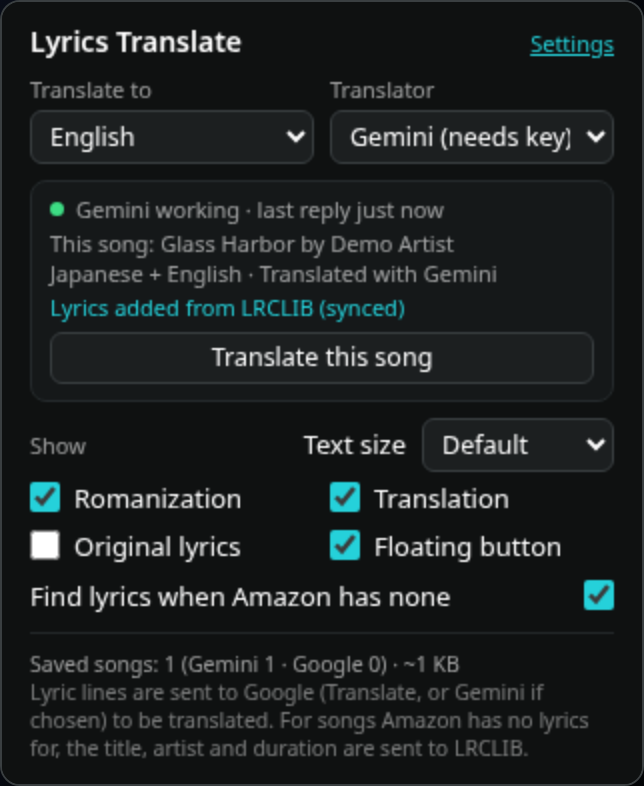
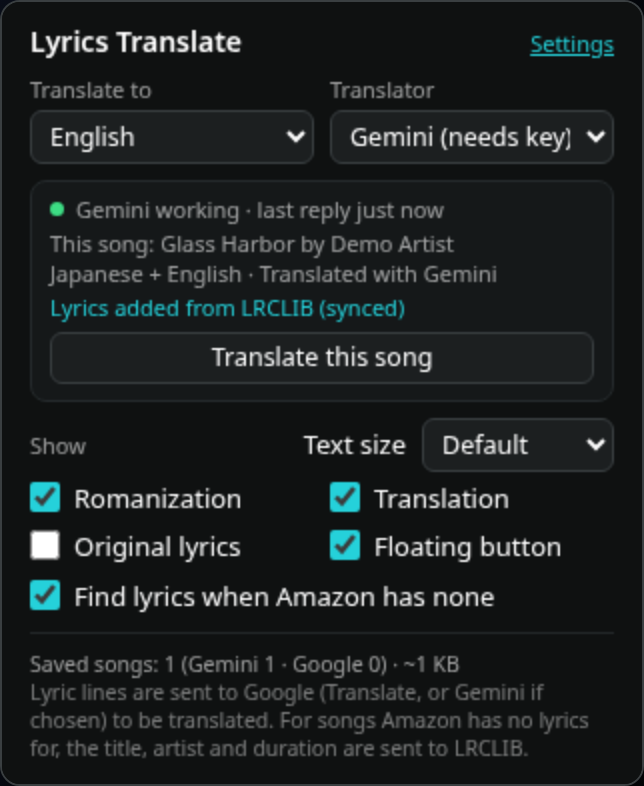
site: 1.3.6 popup images and text, live version line under the install buttons
- docs/img/popup.png and 4-floating-panel.png regenerated from the 1.3.6 popup
  (checkbox on the left; floating button with its green Gemini dot). Store-style
  copy, all network mocked, invented songs and lyrics only.
- Features/popup sections: romanized LRCLIB lyrics and the Gemini dot on the
  floating button; What's new 1.3.6 wording.
- Privacy (page and card): Gemini may also be asked to guess the original script
  of already-romanized lyrics (same lines, same service); cache note.
- Under the install buttons: 'Store: vX · GitHub: vY' from same-origin
  docs/versions.json plus a note about store review times; only the note
  shows if the file can't load.

Changed region(s): [[0.0311, 0.7328, 0.7764, 0.7939], [0.9006, 0.7328, 0.9627, 0.7939]]

diff --git a/docs/index.html b/docs/index.html
@@ -32,6 +32,7 @@
       <a class="btn primary" href="https://microsoftedge.microsoft.com/addons/detail/lyrics-translate-romanize-for-amazon-music/jjfhmmdjbkcamelimddcogoopaljflff">Get it on Microsoft Edge Add-ons</a>
       <a class="btn" href="https://github.com/NoodlesNom/lyrics-translate-for-amazon-music/releases/latest">Download ZIP (load unpacked)</a>
     </div>
+    <p class="note versions"><span id="versions" class="ver" hidden></span>Store updates can take up to a week because Microsoft reviews each one. The GitHub version is always the newest.</p>
     <p class="note">Free and open source (MIT). No account, no analytics. Not affiliated with Amazon.</p>
     <div class="shot"><img src="img/1-translated.png" width="1280" height="800" alt="The Amazon Music-style lyrics view on a demo page: each invented lyric line is shown as a large English translation with a small romanization underneath."></div>
     <p class="note">All screenshots use a local demo page with invented lyric lines.</p>
@@ -54,7 +55,7 @@
       <div class="card"><div class="icon">⤒</div><h3>Translation as the main line</h3>
         <p>By default the translation replaces the original as the big, bold line, with the romanization underneath. Turn on <b>Original lyrics</b> in the popup to keep the original big and show the extras in small text.</p></div>
       <div class="card"><div class="icon">◉</div><h3>Floating button</h3>
-        <p>A small round button in the top-right corner of the player opens the popup as a panel right on the page. Click outside it or press <kbd>Esc</kbd> to close it, or hide the button in the popup.</p></div>
+        <p>A small round button in the top-right corner of the player opens the popup as a panel right on the page. Click outside it or press <kbd>Esc</kbd> to close it, or hide the button in the popup. With Gemini selected, a small dot on it shows the Gemini status, like the popup.</p></div>
       <div class="card"><div class="icon">⟳</div><h3>Per-song cache</h3>
         <p>Results are saved per song, translator and language: up to 2000 songs (400 lines each). Replays are instant and make no requests. When the cache is full, the least recently played songs are removed first.</p></div>
       <div class="card"><div class="icon">✓</div><span class="tag">Improved in 1.3</span><h3>Smarter language check</h3>
@@ -72,6 +73,7 @@
         <ul class="ticks">
           <li>The current line is highlighted and follows playback, seeks and pauses.</li>
           <li>Translation and romanization work just like on Amazon's lyrics.</li>
+          <li>If LRCLIB only has a romanization (romaji, pinyin, Korean romanization), it becomes the small romanization line under the translation, and a copy in the original script wins when there is one. With Gemini, <b>Original lyrics</b> shows a marked guess (≈) of the original script.</li>
           <li>The popup's <b>This song</b> line shows the title, artist and where the lyrics came from.</li>
           <li>Only the song's title, artist and duration are sent to lrclib.net. Turn it off anytime with <b>Find lyrics when Amazon has none</b>.</li>
         </ul></div>
@@ -89,7 +91,7 @@
     <div class="split rev">
       <div class="media"><img src="img/4-floating-panel.png" width="1280" height="800" alt="The floating button in the top-right corner has opened the settings panel on the page, next to translated demo lyrics."></div>
       <div><h3>Settings without leaving the player</h3>
-        <p>The floating button opens the full popup as an in-page panel, handy in full-screen or when the toolbar is hidden. It's the same popup, with the same live status lines.</p></div>
+        <p>The floating button opens the full popup as an in-page panel, handy in full-screen or when the toolbar is hidden. It's the same popup, with the same live status lines, and while Gemini is the translator the button's corner dot shows its status at a glance (green: working).</p></div>
     </div>
   </div>
 </section>
@@ -99,7 +101,7 @@
     <h2>What's new</h2>
     <p class="sub">Recent versions, newest first. Full history and downloads in the <a href="https://github.com/NoodlesNom/lyrics-translate-for-amazon-music/releases">releases</a>.</p>
     <div class="changelog">
-      <div class="card"><h3>1.3.6</h3><p>Romanized LRCLIB lyrics now show as the romanization line; a Japanese-script copy is preferred when LRCLIB has one. Korean and Chinese romanizations are recognized too; with Gemini, the Original lyrics line shows a marked guess of the original script. Tidier popup checkboxes, and the floating button shows the Gemini status dot.</p></div>
+      <div class="card"><h3>1.3.6</h3><p>LRCLIB lyrics that are only a romanization (romaji, Korean romanization or pinyin) now show as the romanization line under the translation, and a copy in the original script is preferred when LRCLIB has one. With Gemini, the Original lyrics line shows a marked guess (≈) of the original script. Tidier popup checkboxes, and the floating button shows the Gemini status dot.</p></div>
       <div class="card"><h3>1.3.5</h3><p>Fixed: after jumping ahead in a song, the highlighted line could scroll off screen (worse with big text). It now comes straight back to the middle of the lyrics. Popup fits without scroll bars again.</p></div>
       <div class="card"><h3>1.3.4</h3><p>First public release with LRCLIB lyrics and the smarter language check (1.3.0–1.3.3 were test builds, released together here). Copies installed with Load unpacked now tell you when a new version is out (a NEW badge and a download link in the popup) and get a <b>Check for updates</b> button. Store copies update automatically, as before.</p></div>
       <div class="card"><h3>1.3.3</h3><p><i>Test build, released in 1.3.4.</i> Smarter language check: songs already in your language never go to Gemini, even with look-alike characters, and mostly English songs only get their few foreign lines translated.</p></div>
@@ -119,8 +121,8 @@
       <dl class="controls">
         <dt>Translate to</dt><dd>Target language: 23 languages, including English, Spanish, French, German, Japanese, Korean, Chinese (Simplified and Traditional), Arabic, Hindi and more.</dd>
         <dt>Translator</dt><dd><b>Gemini (needs key)</b> or <b>Google Translate</b>. Gemini is picked automatically once you save a key.</dd>
-        <dt>Gemini status dot</dt><dd><span class="dot g"></span>Gemini working, last reply 2 min ago · <span class="dot a"></span>Using Google (quota hit, timed out, error or unexpected reply) · <span class="dot r"></span>Invalid key · <span class="dot n"></span>No key, not used yet, or Google selected.</dd>
-        <dt>This song</dt><dd>The current song's title and artist, its detected language(s) and state, for example "Japanese + English · Translated with Gemini (from cache)", "English · Already in English, no translation needed" or "Translating…". For songs Amazon has no lyrics for, a second line says where the lyrics came from: "Lyrics added from LRCLIB (synced)", or "Amazon has no lyrics; none found on LRCLIB".</dd>
+        <dt>Gemini status dot</dt><dd><span class="dot g"></span>Gemini working, last reply 2 min ago · <span class="dot a"></span>Using Google (quota hit, timed out, error or unexpected reply) · <span class="dot r"></span>Invalid key · <span class="dot n"></span>No key, not used yet, or Google selected. While Gemini is selected, the floating button shows the same dot.</dd>
+        <dt>This song</dt><dd>The current song's title and artist, its detected language(s) and state, for example "Japanese + English · Translated with Gemini (from cache)", "English · Already in English, no translation needed" or "Translating…". For songs Amazon has no lyrics for, a second line says where the lyrics came from: "Lyrics added from LRCLIB (synced)", or "Amazon has no lyrics; none found on LRCLIB". If LRCLIB only had a romanization, it says so, for example "LRCLIB lyrics were already romanized (Japanese) · original script guessed by Gemini".</dd>
         <dt>Translate this song</dt><dd>Translates the open song again with the selected translator and stops it being skipped.</dd>
         <dt>Text size</dt><dd>Small (85%), Default, Large (120%) or Extra large (145%).</dd>
         <dt>Toggles</dt><dd>Under <b>Show</b>: Romanization, Translation, Original lyrics and Floating button. Below them, <b>Find lyrics when Amazon has none</b> (on by default; turn it off and nothing is ever sent to LRCLIB).</dd>
@@ -149,7 +151,7 @@
     <h2>Privacy</h2>
     <div class="grid five">
       <div class="card"><h3>No data collection</h3><p>The developer collects nothing. There are no analytics, no trackers, no accounts and no servers of our own.</p></div>
-      <div class="card"><h3>What is sent, and where</h3><p>Only the lyric lines on screen are sent to Google Translate, and to Google Gemini if you added your own key, only to translate or romanize them. No cookies, song history or other data.</p></div>
+      <div class="card"><h3>What is sent, and where</h3><p>Only the lyric lines on screen are sent to Google Translate, and to Google Gemini if you added your own key, only to translate or romanize them (or, for lyrics that are already romanized, for Gemini to guess the original script). No cookies, song history or other data.</p></div>
       <div class="card"><h3>LRCLIB, only when needed</h3><p>Only for songs Amazon has no lyrics for, the song's title, artist and duration are sent to <a href="https://lrclib.net">lrclib.net</a> to find lyrics. No personal data, no account. Switch it off with <b>Find lyrics when Amazon has none</b>.</p></div>
       <div class="card"><h3>Update check (unpacked only)</h3><p>Copies installed with Load unpacked ask GitHub's public API for the latest version number about once a day and when you press <b>Check for updates</b>. Nothing personal is sent. Store copies never do.</p></div>
       <div class="card"><h3>Stored in your browser</h3><p>Your Gemini key, the translation cache and the LRCLIB lyrics cache stay in local extension storage; your settings are in sync storage. Removing the extension clears them.</p></div>
@@ -191,5 +193,21 @@
     <p><a href="privacy.html">Privacy policy</a> · <a href="https://github.com/NoodlesNom/lyrics-translate-for-amazon-music">Source code</a> · <a href="https://github.com/NoodlesNom/lyrics-translate-for-amazon-music/issues">Support and feedback (GitHub issues)</a></p>
   </div>
 </footer>
+<script>
+// Version line under the install buttons: versions.json is on this same site (updated by a GitHub Actions workflow every
+// 6 hours and on each release), so visitors' browsers make no third-party requests. If it can't load, only the note shows.
+fetch('versions.json', { cache: 'no-cache' }).then((r) => (r.ok ? r.json() : Promise.reject(r.status))).then((v) => {
+  const ok = (x) => typeof x === 'string' && /^\d+(\.\d+){1,3}$/.test(x);
+  const parts = [];
+  if (ok(v.store)) parts.push('Store: v' + v.store);
+  if (ok(v.github)) parts.push('GitHub: v' + v.github);
+  if (!parts.length) return;
+  const el = document.getElementById('versions');
+  el.textContent = parts.join(' \u00b7 ');
+  const at = new Date(v.checked);
+  if (!isNaN(at)) el.title = 'Checked ' + at.toLocaleString();
+  el.hidden = false;
+}).catch(() => {});
+</script>
 </body>
 </html>

diff --git a/docs/privacy.html b/docs/privacy.html
@@ -18,13 +18,13 @@
 </header>
 <main class="doc">
   <h1>Privacy Policy</h1>
-  <p class="note">Lyrics Translate &amp; Romanize for Amazon Music · Effective date: September 28, 2026 · Last updated: September 28, 2026</p>
+  <p class="note">Lyrics Translate &amp; Romanize for Amazon Music · Effective date: September 29, 2026 · Last updated: September 29, 2026</p>
   <p>This policy covers the Microsoft Edge extension "Lyrics Translate &amp; Romanize for Amazon Music" (the "extension"), published by NoodlesNom. The extension is not affiliated with Amazon.</p>
 
   <h2>Summary</h2>
   <ul>
     <li><b>The developer collects no data.</b> There are no analytics, no trackers, no advertising, no accounts and no servers run by the developer. Nothing is ever sent to the developer.</li>
-    <li><b>Lyric lines are sent to Google only to translate or romanize them.</b> The lyric lines shown on screen in the Amazon Music web player go to Google Translate, and to Google Gemini if you added your own API key.</li>
+    <li><b>Lyric lines are sent to Google only to translate or romanize them.</b> The lyric lines shown on screen in the Amazon Music web player go to Google Translate, and to Google Gemini if you added your own API key. For lyrics that are already romanized (for example romaji or pinyin), the same Gemini request also asks for a guess of the lines in their original script.</li>
     <li><b>For songs Amazon has no lyrics for, the song's title, artist and duration are sent to LRCLIB</b> (lrclib.net), a free, open lyrics database that needs no account or key, to find lyrics for them. Nothing else is sent to LRCLIB: no personal data, no cookies, no account or listening history. This is on by default and you can turn it off in the popup ("Find lyrics when Amazon has none"); when it's off, nothing is ever sent to LRCLIB.</li>
     <li><b>Only copies installed with &ldquo;Load unpacked&rdquo; check GitHub for updates.</b> About once a day, and when you press &ldquo;Check for updates&rdquo;, they ask GitHub's public API (api.github.com) for the version number of the latest release. Nothing personal is sent. Copies installed from Microsoft Edge Add-ons never do this; the browser updates them.</li>
     <li><b>Everything else stays in your browser.</b> Your Gemini key, the translation cache and the LRCLIB lyrics cache are kept in the extension's local storage, and your settings in the extension's sync storage. Removing the extension clears them.</li>
@@ -43,17 +43,17 @@
   <div class="table-wrap"><table>
     <tr><th>Recipient</th><th>What is sent</th><th>When</th><th>Why</th></tr>
     <tr><td>Google Translate (<code>clients5.google.com</code>, fallback <code>translate.googleapis.com</code>)</td><td>The lyric lines on screen and the target language code</td><td>When a song's lyrics are shown and aren't in the cache yet</td><td>To translate the lines, detect their language and romanize non-Latin lines</td></tr>
-    <tr><td>Google Gemini API (<code>generativelanguage.googleapis.com</code>)</td><td>The song's lyric lines, the target language, and <b>your own</b> API key (in a request header)</td><td>Only if you saved a Gemini key and Gemini is selected, and the song isn't already in your target language</td><td>To translate the lines</td></tr>
+    <tr><td>Google Gemini API (<code>generativelanguage.googleapis.com</code>)</td><td>The song's lyric lines, the target language, and <b>your own</b> API key (in a request header)</td><td>Only if you saved a Gemini key and Gemini is selected, and the song isn't already in your target language</td><td>To translate the lines; for lyrics that are already romanized (romaji, Korean romanization, pinyin), also to guess their language and their original script</td></tr>
     <tr><td>GitHub API (<code>api.github.com</code>)</td><td>A plain request for the latest release of this project (<code>/repos/NoodlesNom/lyrics-translate-for-amazon-music/releases/latest</code>); no song, settings or personal data, no cookies or login</td><td><b>Only for unpacked copies</b> (installed with &ldquo;Load unpacked&rdquo;): about once a day, and when you press &ldquo;Check for updates&rdquo; (at most once a minute). Store copies never</td><td>To read the latest version number and tell you when an update is available</td></tr>
     <tr><td>LRCLIB (<code>lrclib.net</code>)</td><td>The song's <b>title, artist and duration</b> (in seconds), plus a header naming the extension (<code>Lrclib-Client</code>)</td><td>Only when Amazon Music shows no lyrics for the song, "Find lyrics when Amazon has none" is on (default), and the song isn't already in the cache</td><td>To find the song's lyrics (synced if available)</td></tr>
   </table></div>
-  <p>Requests are made without cookies. As with any web request, the services contacted see your IP address and browser user agent. Apart from the title, artist and duration sent to LRCLIB as described above, no song titles, artist names, history, identifiers or other personal data are sent. Lyrics found on LRCLIB are shown in Amazon's full view and, like Amazon's own lyrics, their lines are sent to Google Translate (or Gemini) only to translate or romanize them. LRCLIB is an independent third-party service; see <a href="https://lrclib.net">lrclib.net</a>. GitHub's handling of API requests is covered by the <a href="https://docs.github.com/site-policy/privacy-policies/github-general-privacy-statement">GitHub Privacy Statement</a>. Google processes its requests under its own terms and privacy policy (<a href="https://policies.google.com/privacy">Google Privacy Policy</a>, <a href="https://ai.google.dev/gemini-api/terms">Gemini API Additional Terms</a>). On Gemini's free tier, Google may use submitted content to improve its products.</p>
+  <p>Requests are made without cookies. As with any web request, the services contacted see your IP address and browser user agent. Apart from the title, artist and duration sent to LRCLIB as described above, no song titles, artist names, history, identifiers or other personal data are sent. Lyrics found on LRCLIB are shown in Amazon's full view and, like Amazon's own lyrics, their lines are sent to Google Translate (or Gemini) only to translate or romanize them (and, with Gemini, to guess the original script of lyrics that are already romanized). LRCLIB is an independent third-party service; see <a href="https://lrclib.net">lrclib.net</a>. GitHub's handling of API requests is covered by the <a href="https://docs.github.com/site-policy/privacy-policies/github-general-privacy-statement">GitHub Privacy Statement</a>. Google processes its requests under its own terms and privacy policy (<a href="https://policies.google.com/privacy">Google Privacy Policy</a>, <a href="https://ai.google.dev/gemini-api/terms">Gemini API Additional Terms</a>). On Gemini's free tier, Google may use submitted content to improve its products.</p>
 
   <h2>What is stored, and where</h2>
   <p>All storage is the browser's own extension storage (<code>chrome.storage</code>). The developer can't access it.</p>
   <ul>
     <li><b>Gemini API key</b>: <code>chrome.storage.local</code> only (this browser, never synced). You can remove it any time with <b>Remove key</b> on the Settings page.</li>
-    <li><b>Translation cache</b>: <code>chrome.storage.local</code>. For up to 2000 songs it keeps the song title and artist (as the cache key), the lyric lines, their translations and romanizations, and the time last played. The least recently played songs are removed first when the cache is full.</li>
+    <li><b>Translation cache</b>: <code>chrome.storage.local</code>. For up to 2000 songs it keeps the song title and artist (as the cache key), the lyric lines, their translations and romanizations (and, for already-romanized lyrics, the guessed original script), and the time last played. The least recently played songs are removed first when the cache is full.</li>
     <li><b>LRCLIB lyrics cache</b>: <code>chrome.storage.local</code>. For songs Amazon has no lyrics for, the lyrics found on LRCLIB (with the LRCLIB record id and the song duration), or a "not found" note that expires after 7 days, under the same title/artist cache key and 2000-song limit as the translation cache.</li>
     <li><b>Update check</b> (unpacked copies only): the time of the last check, the latest version number found, its release page link and any error, in <code>chrome.storage.local</code>.</li>
     <li><b>Gemini status</b> (the last Gemini result, such as "ok" or "quota", and its time): <code>chrome.storage.local</code>.</li>

diff --git a/docs/style.css b/docs/style.css
@@ -23,6 +23,8 @@ nav a:hover { color: var(--text); }
 .btn.primary { background: var(--accent); color: #062326; border-color: var(--accent); }
 .btn[aria-disabled="true"] { opacity: .75; cursor: default; }
 .note { font-size: 13px; color: var(--muted); }
+.note.versions { margin: 0 0 6px; }
+.note.versions .ver { display: block; color: #cdd6da; font-variant-numeric: tabular-nums; }
 .shot { margin-top: 40px; border-radius: var(--radius); overflow: hidden; border: 1px solid var(--line); box-shadow: 0 30px 80px rgba(0, 0, 0, .55); }
 section { padding: 64px 0; border-top: 1px solid var(--line); }
 section h2 { font-size: 32px; margin: 0 0 10px; letter-spacing: -.01em; }
